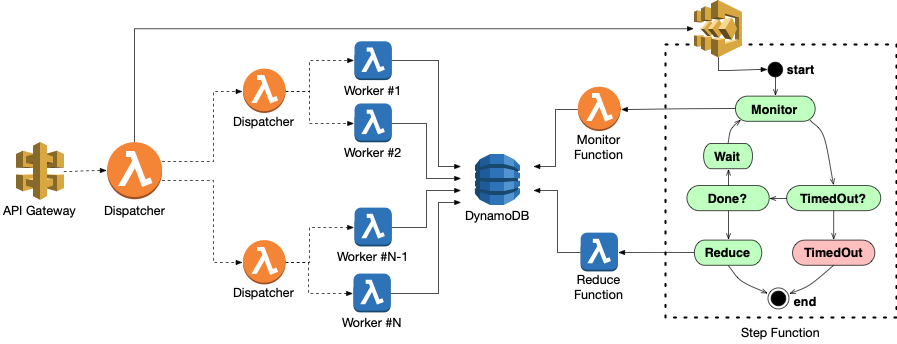
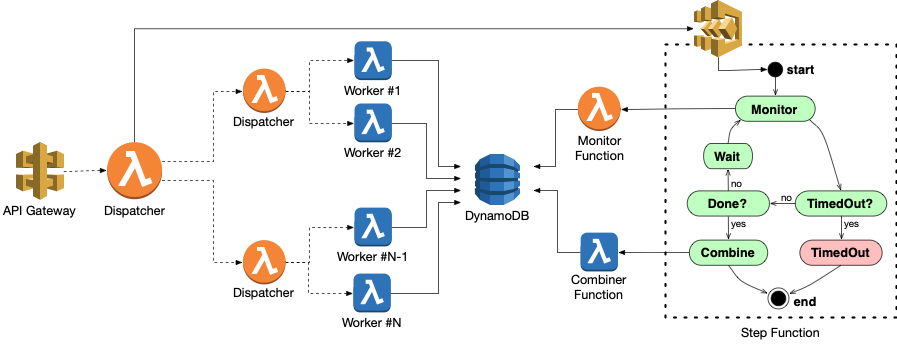
renamed reduce to combiner

diff --git a/src/main/nodejs/dispatch.js b/src/main/nodejs/dispatch.js
@@ -7,6 +7,7 @@ const {
   MONITOR_FUNCTION_NAME,
   STATE_MACHINE_ARN,
   JOB_TIMEOUT_SECS,
+  TASKS_TABLE_NAME,
 } = process.env;
 
 const DEFAULTS = {
@@ -56,7 +57,7 @@ exports.dispatchHandler = async (event) => {
   console.log('Input event:', JSON.stringify(event));
 
   // User defined parameters
-  const { workerFunctionName, reduceFunctionName, searchTimeoutSecs = JOB_TIMEOUT_SECS } = event;
+  const { workerFunctionName, combinerFunctionName, searchTimeoutSecs = JOB_TIMEOUT_SECS } = event;
   const startIndex = parseInt(event.startIndex);
   const endIndex = parseInt(event.endIndex);
   let batchSize = parseInt(event.batchSize);
@@ -69,13 +70,15 @@ exports.dispatchHandler = async (event) => {
 
   // Programmatic parameters. In the case of the root manager, these may be null initially
   // and then generated for later invocations.
-  let { jobId, monitorName } = event;
+  let { jobId } = event;
   let numBatches = parseInt(event.numBatches);
   let branchingFactor = parseInt(event.branchingFactor);
 
   if (level === 0) {
     // This next log statement is parsed by the analyzer. DO NOT CHANGE.
     console.log('Root Dispatcher');
+    const now = new Date();
+    const startTime = now.toISOString();
 
     // Generate new job id
     jobId = uuidv1();
@@ -95,23 +98,22 @@ exports.dispatchHandler = async (event) => {
     branchingFactor = Math.ceil(numBatches ** (1 / numLevels));
 
     // Start monitoring
-    const now = new Date();
     const monitorParams = {
       jobId,
       jobParameters,
       numBatches,
       searchTimeoutSecs,
-      startTime: now.toISOString(),
+      startTime,
       monitorFunctionName: MONITOR_FUNCTION_NAME,
-      reduceFunctionName,
+      combinerFunctionName,
+      tasksTableName: TASKS_TABLE_NAME,
     };
     console.log(`Starting state machine ${STATE_MACHINE_ARN}`);
-    monitorName = jobId;
-    await startStepFunction(STATE_MACHINE_ARN, monitorParams, monitorName);
+    await startStepFunction(STATE_MACHINE_ARN, monitorParams, jobId);
   }
 
   // This next log statement is parsed by the analyzer. DO NOT CHANGE.
-  console.log(`Monitor: ${monitorName}`);
+  console.log(`Job Id: ${jobId}`);
 
   const nextLevelManagerRange = (branchingFactor ** (numLevels - level - 1)) * batchSize;
   console.log(`Level ${level} -> next range: ${nextLevelManagerRange}`);
@@ -123,9 +125,8 @@ exports.dispatchHandler = async (event) => {
     batchSize,
     numBatches,
     branchingFactor,
-    monitorName,
     workerFunctionName,
-    reduceFunctionName,
+    combinerFunctionName,
     searchTimeoutSecs,
   };
 
@@ -156,16 +157,16 @@ exports.dispatchHandler = async (event) => {
       // This next log statement is parsed by the analyzer. DO NOT CHANGE.
       console.log(`Dispatching Batch Id: ${batchId}`);
       const params = {
-        monitorName,
         jobId,
         batchId,
         jobParameters,
         startIndex: workerStart,
         endIndex: workerEnd,
+        tasksTableName: TASKS_TABLE_NAME,
         ...nextEvent,
       };
       invokePromises.push(invokeAsync(workerFunctionName, params));
-      console.log(`(Promise#${index}) Dispatched batch #${batchId} to ${workerFunctionName}`);
+      console.log(`(Promise#${index}) Dispatched worker #${batchId} to ${workerFunctionName}`);
       batchId += 1;
       index += 1;
     }
@@ -175,7 +176,6 @@ exports.dispatchHandler = async (event) => {
   responses.forEach((r, i) => console.log(`(Promise#${i}) status=${r.Status}`));
 
   return {
-    monitorName,
     jobId,
     numBatches,
     branchingFactor,

diff --git a/src/main/nodejs/monitor.js b/src/main/nodejs/monitor.js
@@ -1,7 +1,7 @@
 const AWS = require('aws-sdk');
 const moment = require('moment');
 
-const { JOB_TIMEOUT_SECS, JOB_TABLE_NAME } = process.env;
+const { JOB_TIMEOUT_SECS, TASKS_TABLE_NAME } = process.env;
 
 const docClient = new AWS.DynamoDB.DocumentClient();
 
@@ -12,7 +12,7 @@ const monitorJob = async (jobParams) => {
 
   // Find out how many tasks are remaining
   const params = {
-    TableName: JOB_TABLE_NAME,
+    TableName: TASKS_TABLE_NAME,
     ConsistentRead: true,
     Select: 'COUNT',
     KeyConditionExpression: 'jobId = :jobId',

diff --git a/docs/Interfaces.md b/docs/Interfaces.md
@@ -1,6 +1,6 @@
 # Function interfaces
 
-In order to use the burst compute framework, you need to define a **worker** function and a **reduce** function. 
+In order to use the burst compute framework, you need to define a **worker** function and a **combiner** function. 
 
 ## Worker Interface
 
@@ -9,13 +9,14 @@ You can define the worker function to do anything you like. If a job operates on
 Input:
 ```javascript
 {
-  jobId: "DynamoDB identifier where results should be written",
-  batchId: "DynamoDB identifier where results should be written",
+  tasksTableName: "name of the DynamoDB table where results should be written"
+  jobId: "DynamoDB partition key where results should be written",
+  batchId: "DynamoDB sort key where results should be written",
+  startIndex: "First index to process",
+  endIndex: "First index to not process",
   jobParameters: {
     // Input parameter dictionary as received by dispatch function
   },
-  startIndex: "First index to process",
-  endIndex: "First index to not process",
 }
 ```
 
@@ -43,21 +44,22 @@ This function will require dynamodb:PutItem permission to the **TasksTable**:
 },
 ```
 
-## Reduce Interface
+## Combiner Interface
 
-There are no expectations for the reduce function except that it should exist so that the framework can call it. 
+There are no expectations for the combiner function except that it should exist so that the framework can call it. 
 
-Typically, the reduce function combines all of the individual intermediate results in the DynamoDB **TasksTable** which were produced by the worker functions. It then produces a final combined result. It may also do additional work such as writing the final result to S3, or notifying your web frontend via a Web Socket. 
+Typically, the combiner function *combines* all of the individual intermediate results in the DynamoDB **TasksTable** which were produced by the worker functions. It then produces a final combined result. It may also do additional work such as writing the final result to S3, or notifying your web frontend via a Web Socket. 
 
 Input:
 ```javascript
 {
-  jobId: "DynamoDB identifier where results should be written",
+  tasksTableName: "Name of the DynamoDB table from which results should be read",
+  jobId: "DynamoDB partition id for querying the tasks table",
+  startTime: "ISO date indicating when the job was started",
+  elapsedSecs: "Number of seconds that elapsed since the job was started",
   jobParameters: {
     // Input parameter dictionary as received by dispatch function
   },
-  startTime: "ISO date indicating when the job was started"
-  elapsedSecs: "Number of seconds that elapsed since the job was started"
 }
 ```
 
@@ -96,17 +98,17 @@ You can invoke the dispatch function either synchronously or asynchronously, dep
 Input:
 ```javascript
 {
-  workerFunctionName: "Name or ARN of your worker Lambda function",
-  reduceFunctionName: "Name or ARN of your reduce Lambda function",
-  jobParameters: {
-    // Any parameters that each worker should receive
-  },
+  workerFunctionName: "Name or ARN of the user-defined worker Lambda function",
+  combinerFunctionName: "Name or ARN of the user-defined combiner Lambda function",
   startIndex: "Start index to process, inclusive, e.g. 0",
   endIndex: "End index to process, exclusive, e.g. N-1 if you have N items to process",
   batchSize: "How many items should each worker instance process",
   numLevels: "Number of levels in the dispatcher tree, e.g. 1 or 2",
   maxParallelism: "Maximum number of batches to run",
-  searchTimeoutSecs: "Number of seconds to wait for job to finish before ending with a timeout"
+  searchTimeoutSecs: "Number of seconds to wait for job to finish before ending with a timeout",
+  jobParameters: {
+    // Any parameters that each worker should receive
+  },
 }
 ```
 
@@ -118,9 +120,9 @@ Output:
 }
 ```
 
-## Resource References
+## Cross-Stack References
 
-Once the framework is deployed, you can write serverless applications that leverage it. The best way to reference the resource names is to use [cross-stack references](https://docs.aws.amazon.com/AWSCloudFormation/latest/UserGuide/outputs-section-structure.html) using the provided CloudFormation Outputs. 
+If you don't want to hardcode the resource names of the dispatch function and tasks table, you can use [cross-stack references](https://docs.aws.amazon.com/AWSCloudFormation/latest/UserGuide/outputs-section-structure.html) using the provided CloudFormation Outputs. 
 
 For example, if you are using Serverless Framework, you can reference the framework resources in your serverless.yml like this:
 ```yaml

diff --git a/README.md b/README.md
@@ -2,19 +2,19 @@
 
 Serverless burst-compute implementation for AWS, using only native AWS services.
 
-For [embarassingly parallel](https://en.wikipedia.org/wiki/Embarrassingly_parallel) workloads, **N** items may be trivially processed by **T** threads. Given **N** items, and a **batchSize** (the maximum number of items to be processed by a single process in serial), we divide the work into **N/batchSize** batches and invoke that many user-provided **worker** Lambdas. When all the worker functions are done, the results are combined by the user-provided **reduce** Lambda. 
+For [embarassingly parallel](https://en.wikipedia.org/wiki/Embarrassingly_parallel) workloads, **N** items may be trivially processed by **T** threads. Given **N** items, and a **batchSize** (the maximum number of items to be processed by a single process in serial), we divide the work into **N/batchSize** batches and invoke that many user-provided **worker** Lambdas. When all the worker functions are done, the results are combined by the user-provided **combiner** Lambda. 
 
 In the diagram below, the code you write is indicated by the blue lambda icons.
 
 ![Architecture Diagram](docs/burst-compute-diagram.png)
 
 Here's how it works, step-by-step:
-1) You define a **worker** function and a **reduce** function
+1) You define a **worker** function and a **combiner** function
 2) Launch your burst compute job by calling the **dispatch** function with a range of items to process
 3) The dispatcher will start copies of itself recursively and efficiently start your worker lambdas
 4) Each **worker** is given a range of inputs and must compute results for those inputs and write results to DynamoDB
-5) The Step Function monitors all the results and calls the reduce function when all workers are done
-6) The **reduce** function reads all output from DynamoDB and aggregates them into the final result
+5) The Step Function monitors all the results and calls the combiner function when all workers are done
+6) The **combiner** function reads all output from DynamoDB and aggregates them into the final result
 
 ## Build
 
@@ -42,5 +42,5 @@ npm run sls -- deploy -s prod
 
 ## Usage
 
-1. Create **worker** and **reduce** functions which follow the input/output specification defined in the [Interfaces](docs/Interfaces.md) document.
+1. Create **worker** and **combiner** functions which follow the input/output specification defined in the [Interfaces](docs/Interfaces.md) document.
 2. Invoke the **dispatch** function to start a burst job. 
